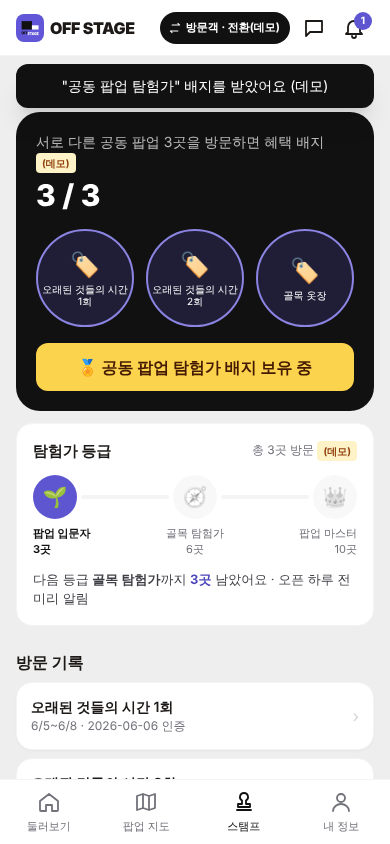
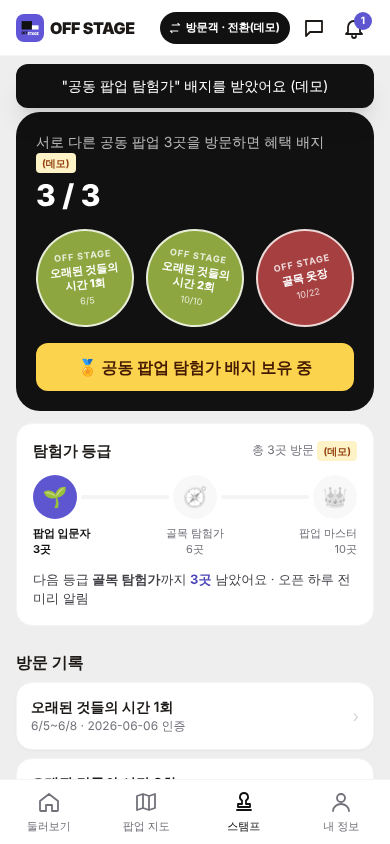
스탬프를 브랜드 색 도장 모양으로
Claude-Session: https://claude.ai/code/session_0127PgxmrWax7HLBrSWBod79

Changed region(s): [[0.0923, 0.2464, 0.9231, 0.4005]]

diff --git a/src/screens/Popup.tsx b/src/screens/Popup.tsx
@@ -326,11 +326,16 @@ export function StampsTab() {
             {Array.from({ length: STAMP_GOAL }).map((_, i) => {
               const p = popupById(db, st.popupIds[i]);
               return (
-                <div key={i} className={cx('aspect-square rounded-full border-2 flex flex-col items-center justify-center text-center p-1', p ? 'border-brand-400 bg-brand-500/20' : 'border-dashed border-white/30')}>
+                <div
+                  key={i}
+                  className={cx('aspect-square rounded-full border-2 flex flex-col items-center justify-center text-center p-1', p ? 'border-white/80' : 'border-dashed border-white/30')}
+                  style={p ? { background: `hsl(${brandById(db, teamById(db, p.teamId)?.members[0]?.brandId ?? '')?.logoHue ?? 250} 45% 45%)`, transform: `rotate(${(i % 2 ? 1 : -1) * (6 + i * 3)}deg)` } : undefined}
+                >
                   {p ? (
                     <>
-                      <span className="text-2xl">🏷</span>
-                      <span className="text-[10px] leading-tight mt-0.5 line-clamp-2">{p.title}</span>
+                      <span className="text-[9px] font-bold tracking-widest opacity-80">OFF STAGE</span>
+                      <span className="text-[11px] font-extrabold leading-tight mt-0.5 line-clamp-2">{p.title}</span>
+                      <span className="text-[9px] opacity-80 mt-0.5">{md(p.period.start)}</span>
                     </>
                   ) : (
                     <span className="text-white/40 text-xs">{i + 1}</span>
